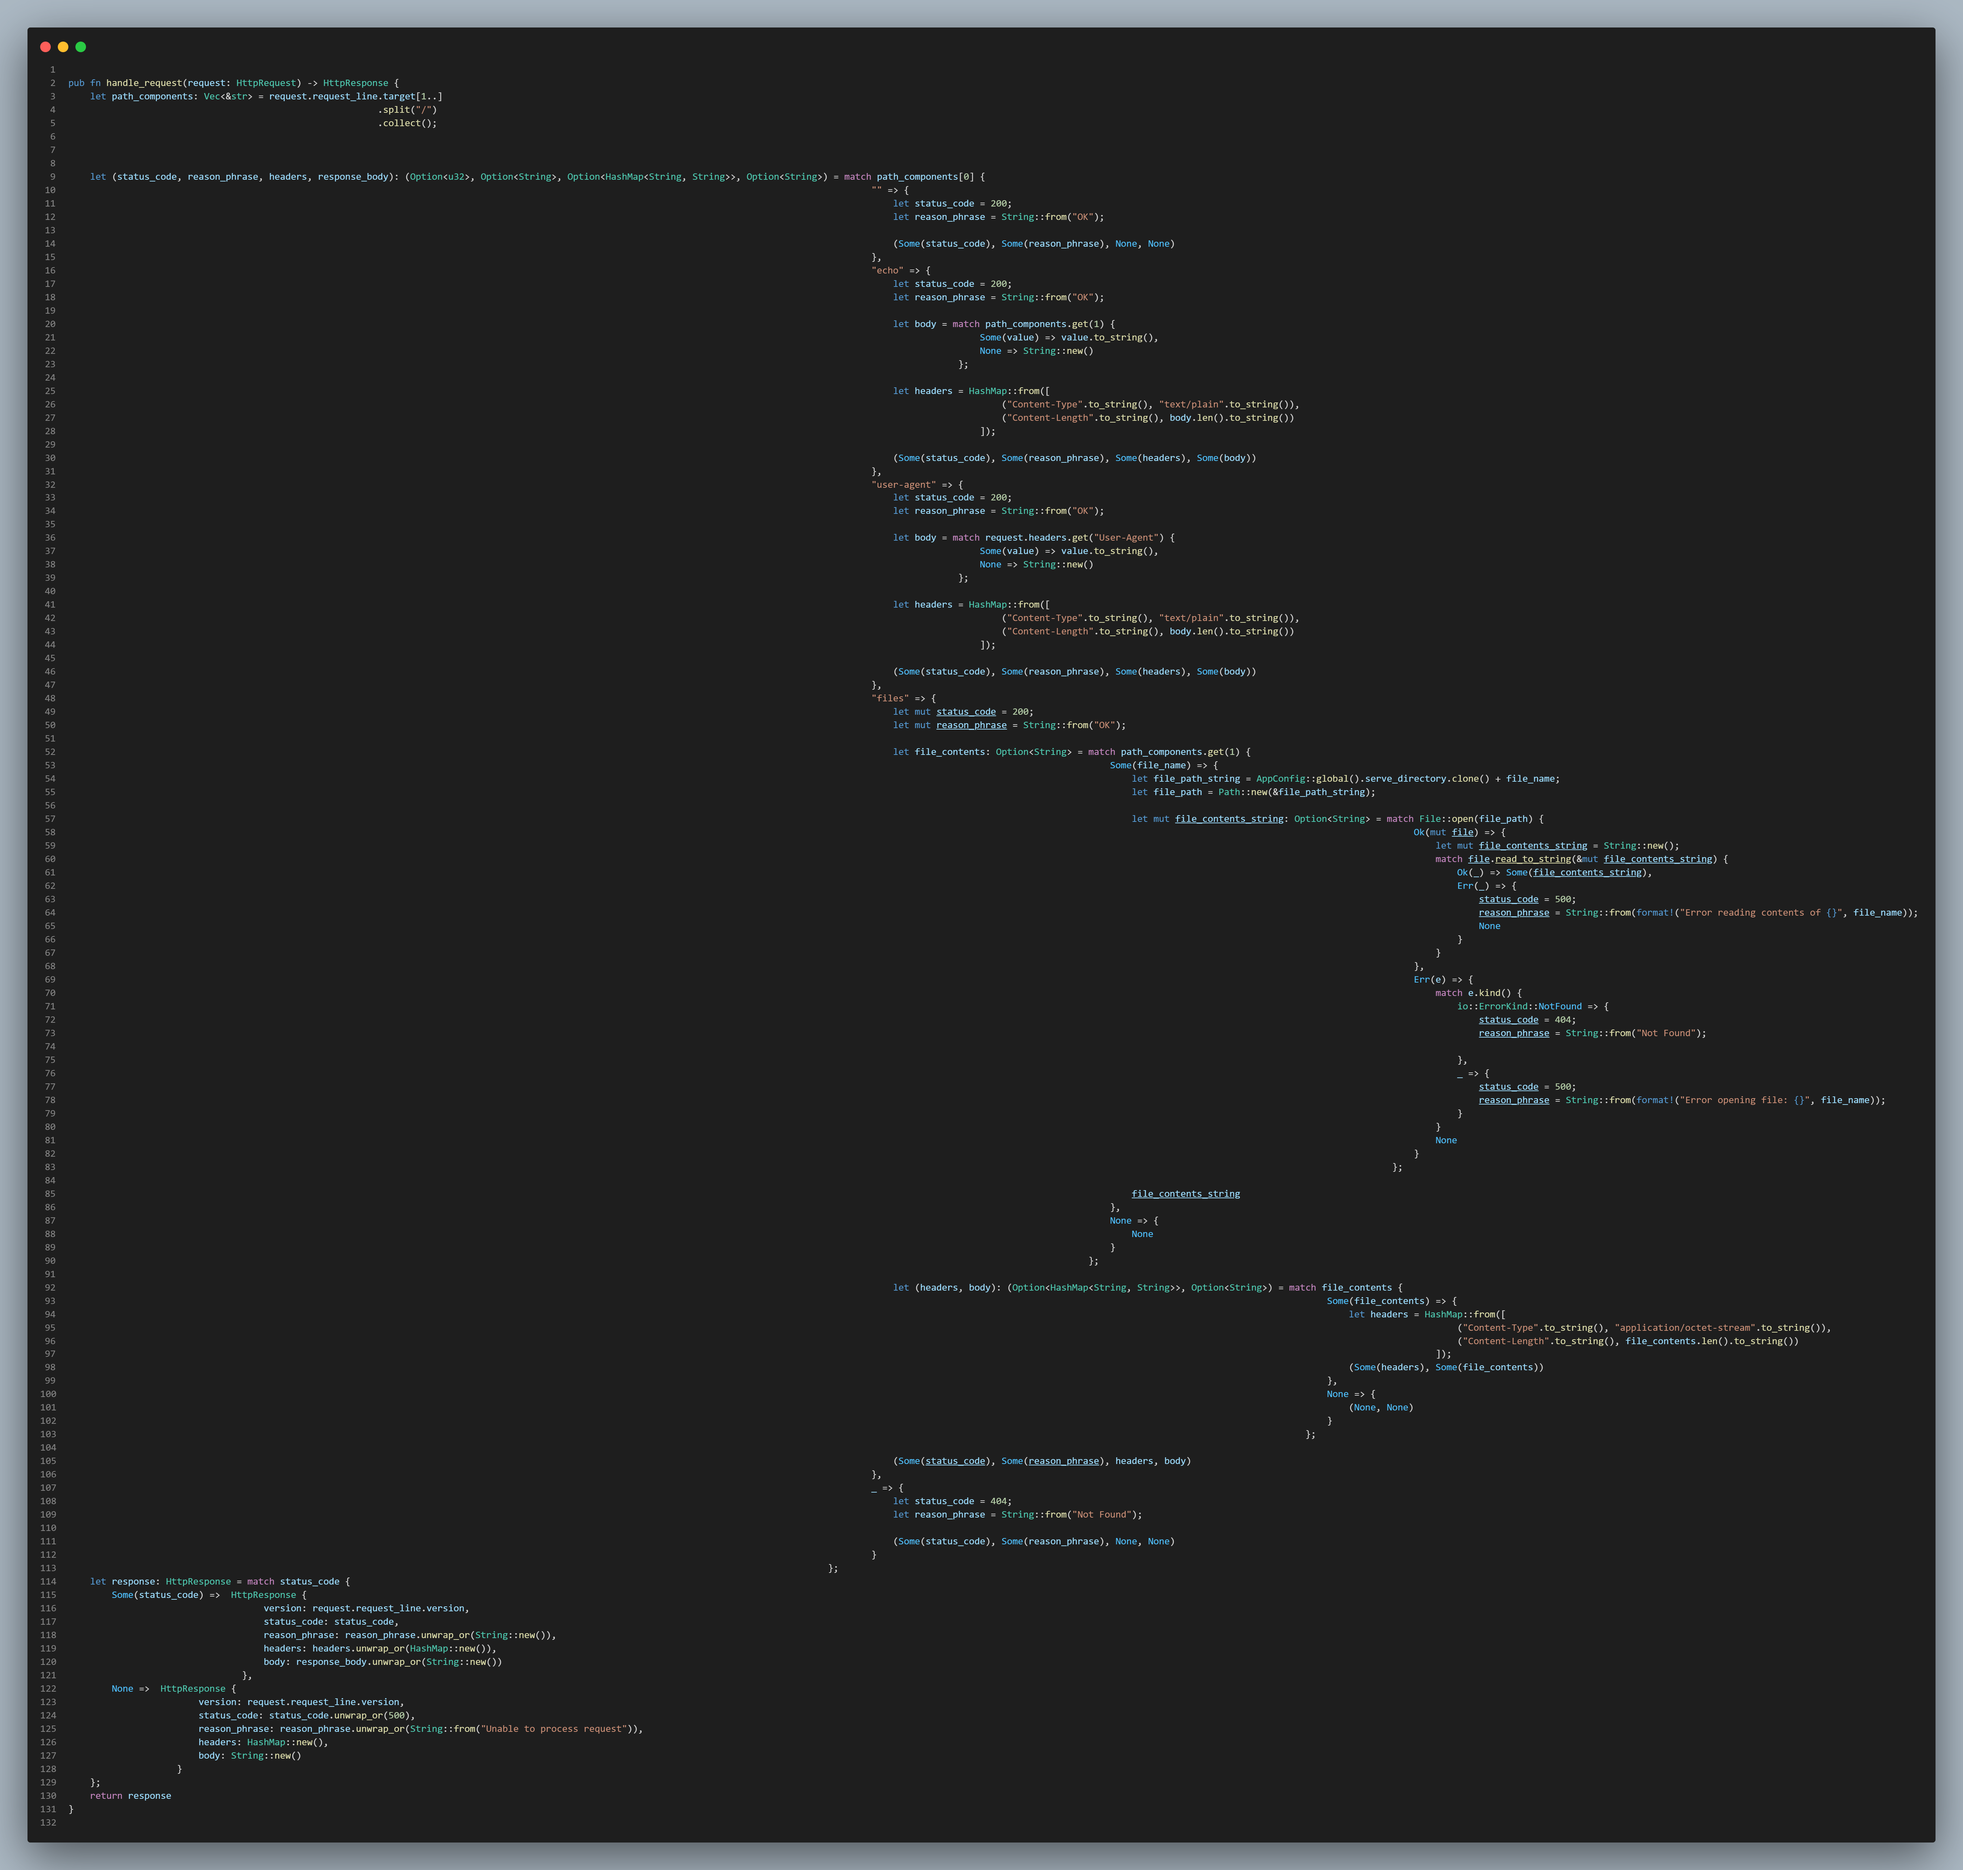
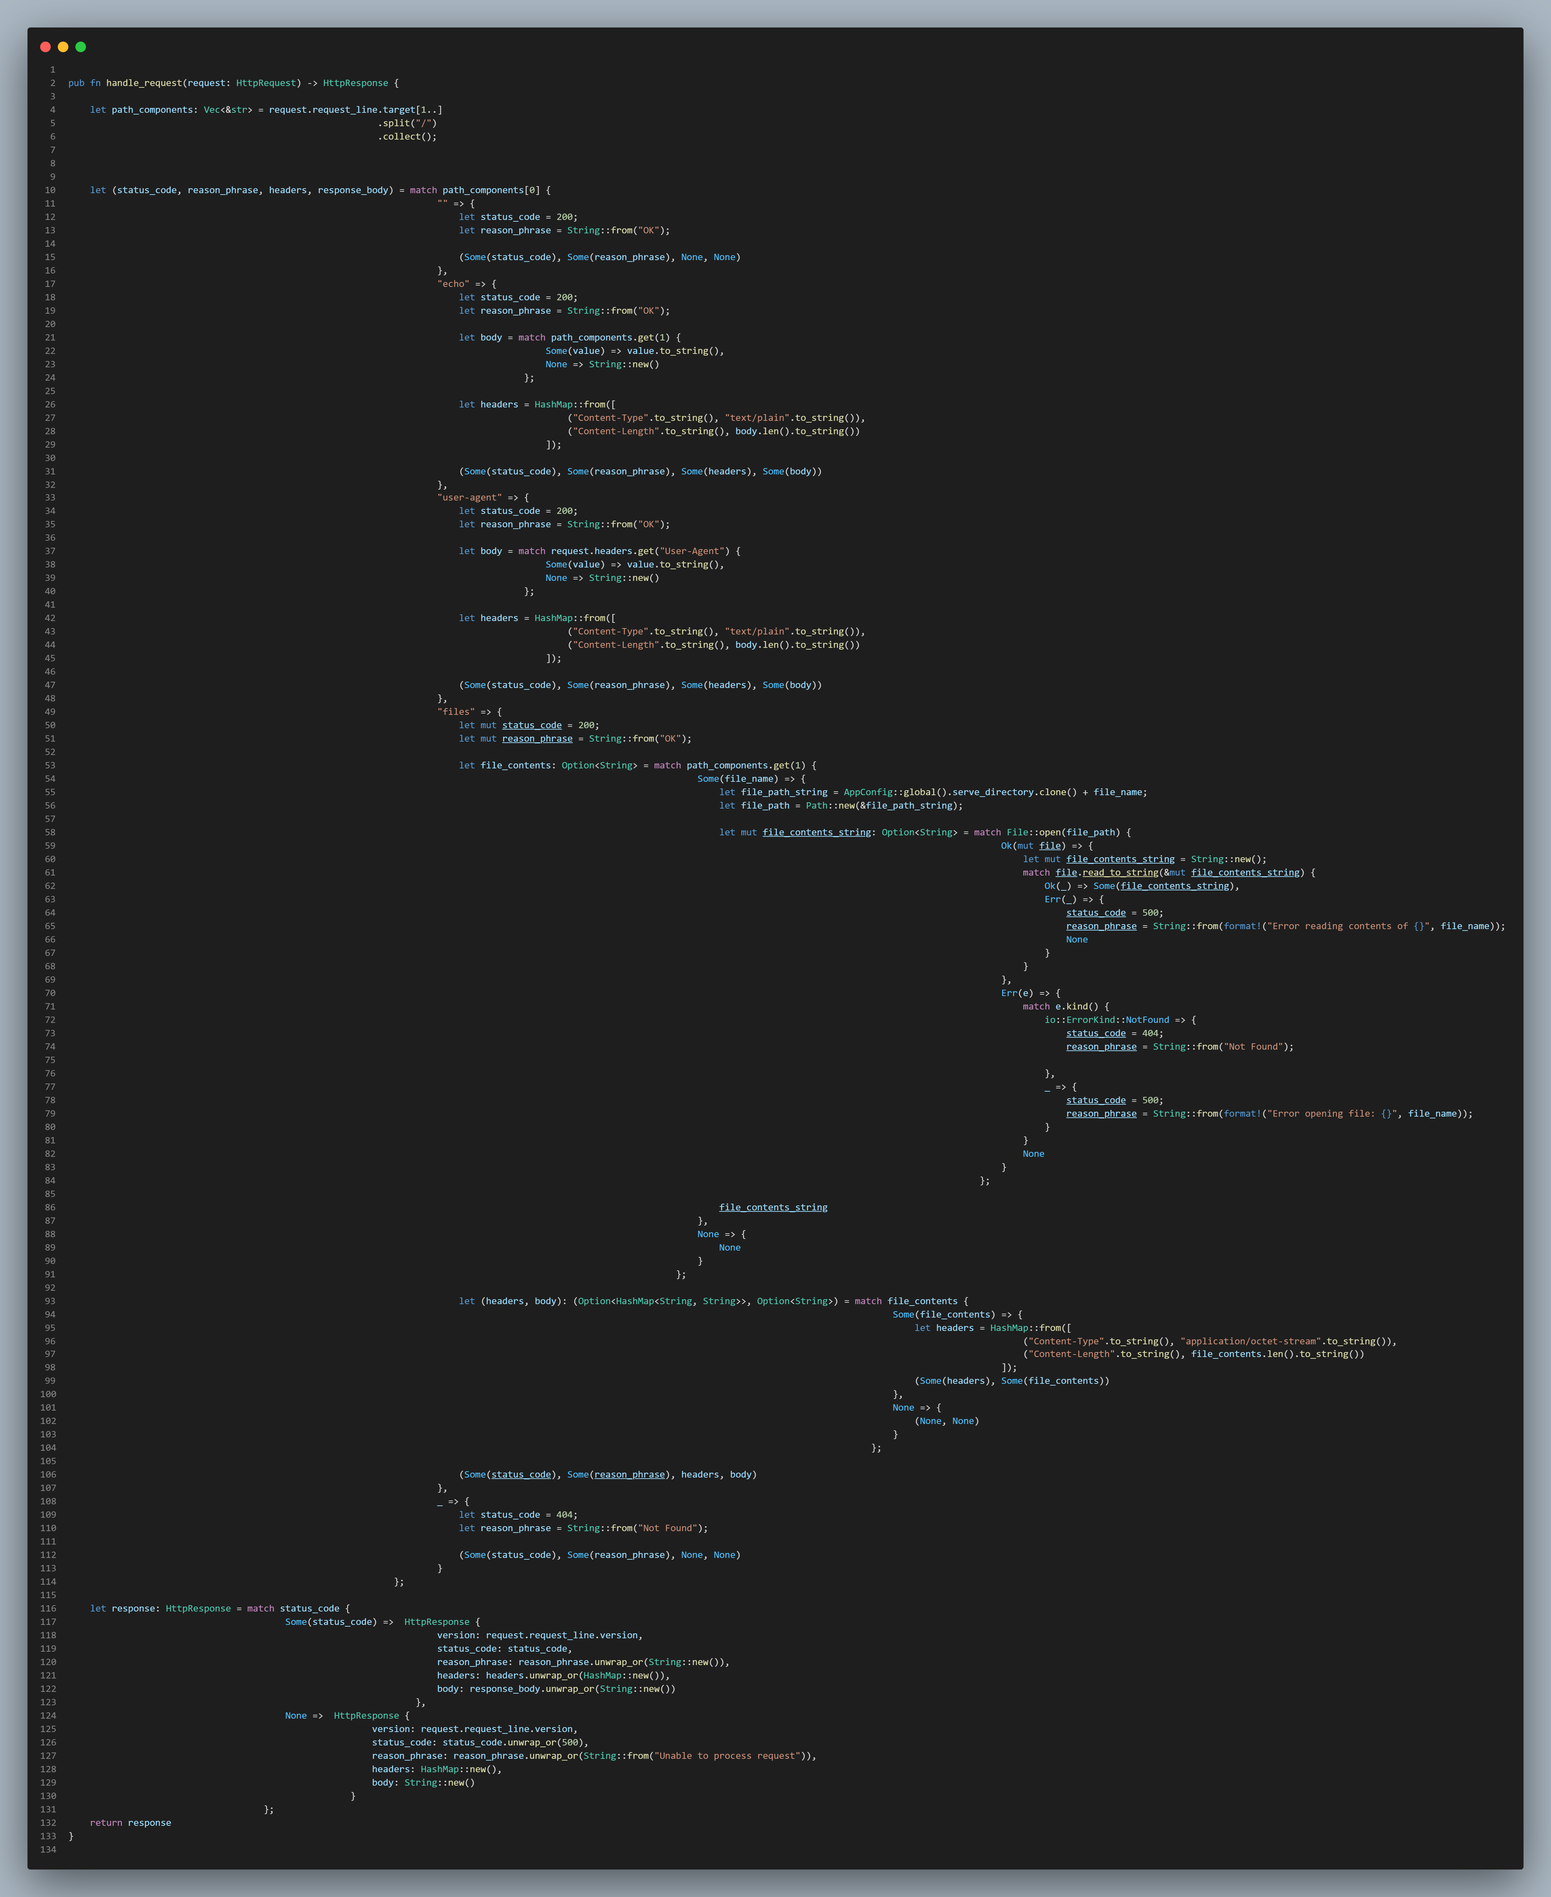
edit to blog

diff --git a/src/docs/Blog/Staff/Ray/MyCodeStyles.md b/src/docs/Blog/Staff/Ray/MyCodeStyles.md
@@ -2,7 +2,8 @@
 <br>
 
 
-### I recently started experimenting with ways to my code files more readable. Ive found a interesting indent-scheme that adds alot more readablily for me. 
+### I recently started experimenting with ways to make my code files more readable. Ive found a interesting indenting-scheme that adds alot more readablily for me.
+
 ### Heres an example, see if you can spot the difference:  
 
 | Normal People | Me |
